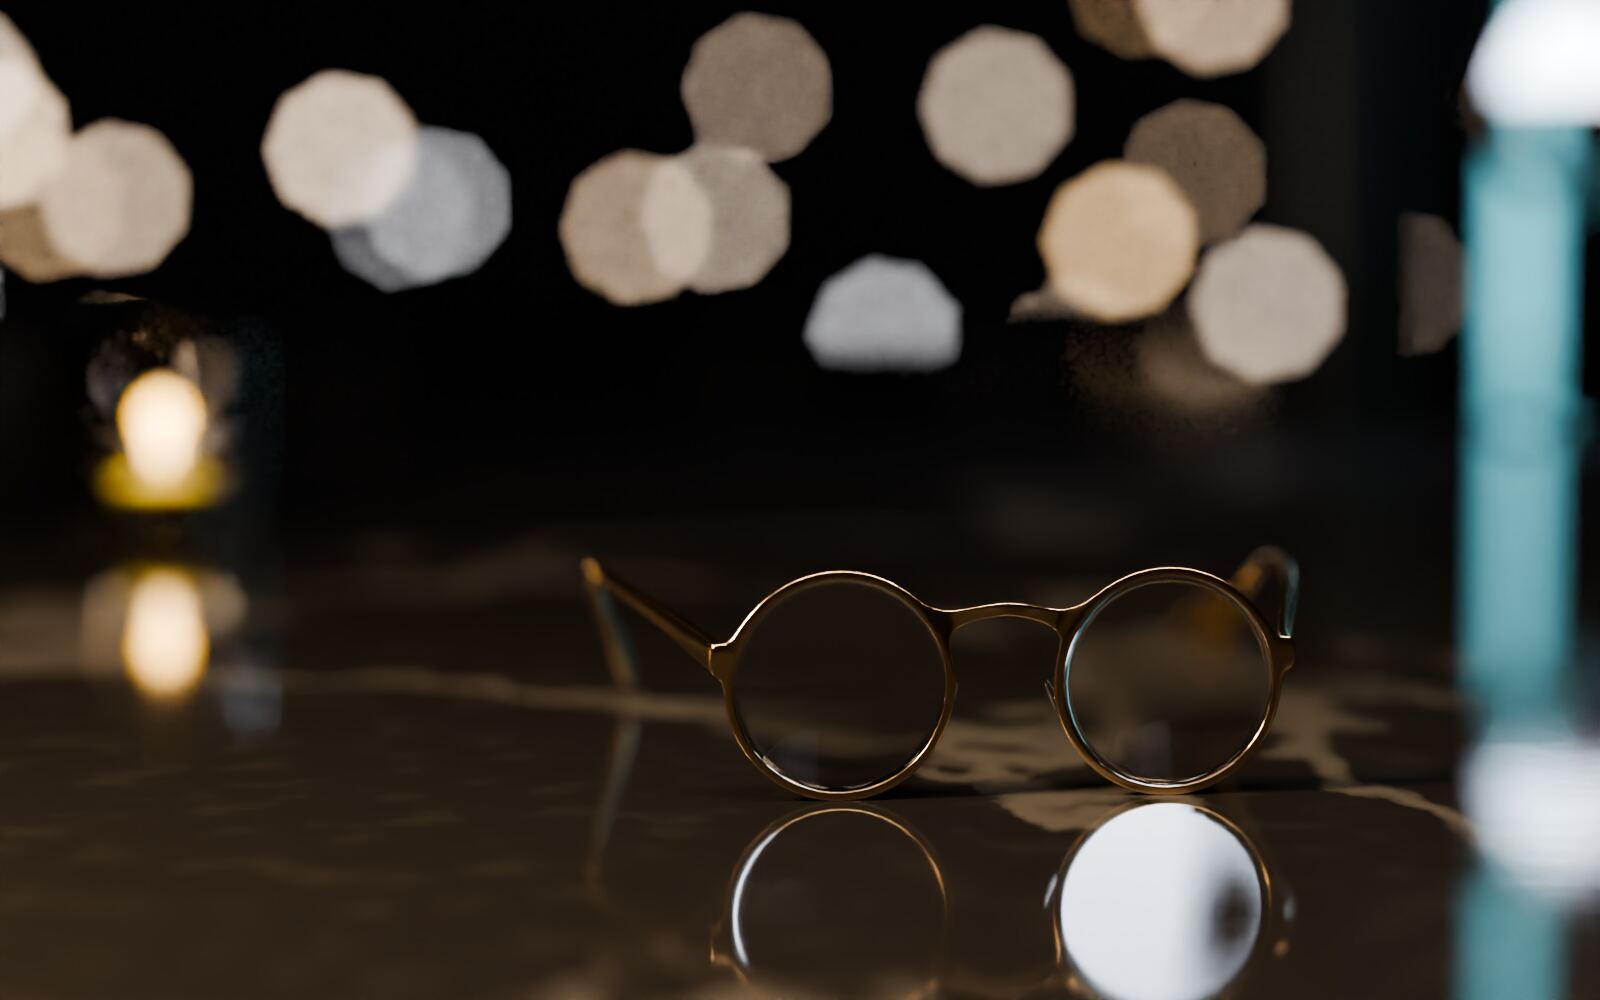
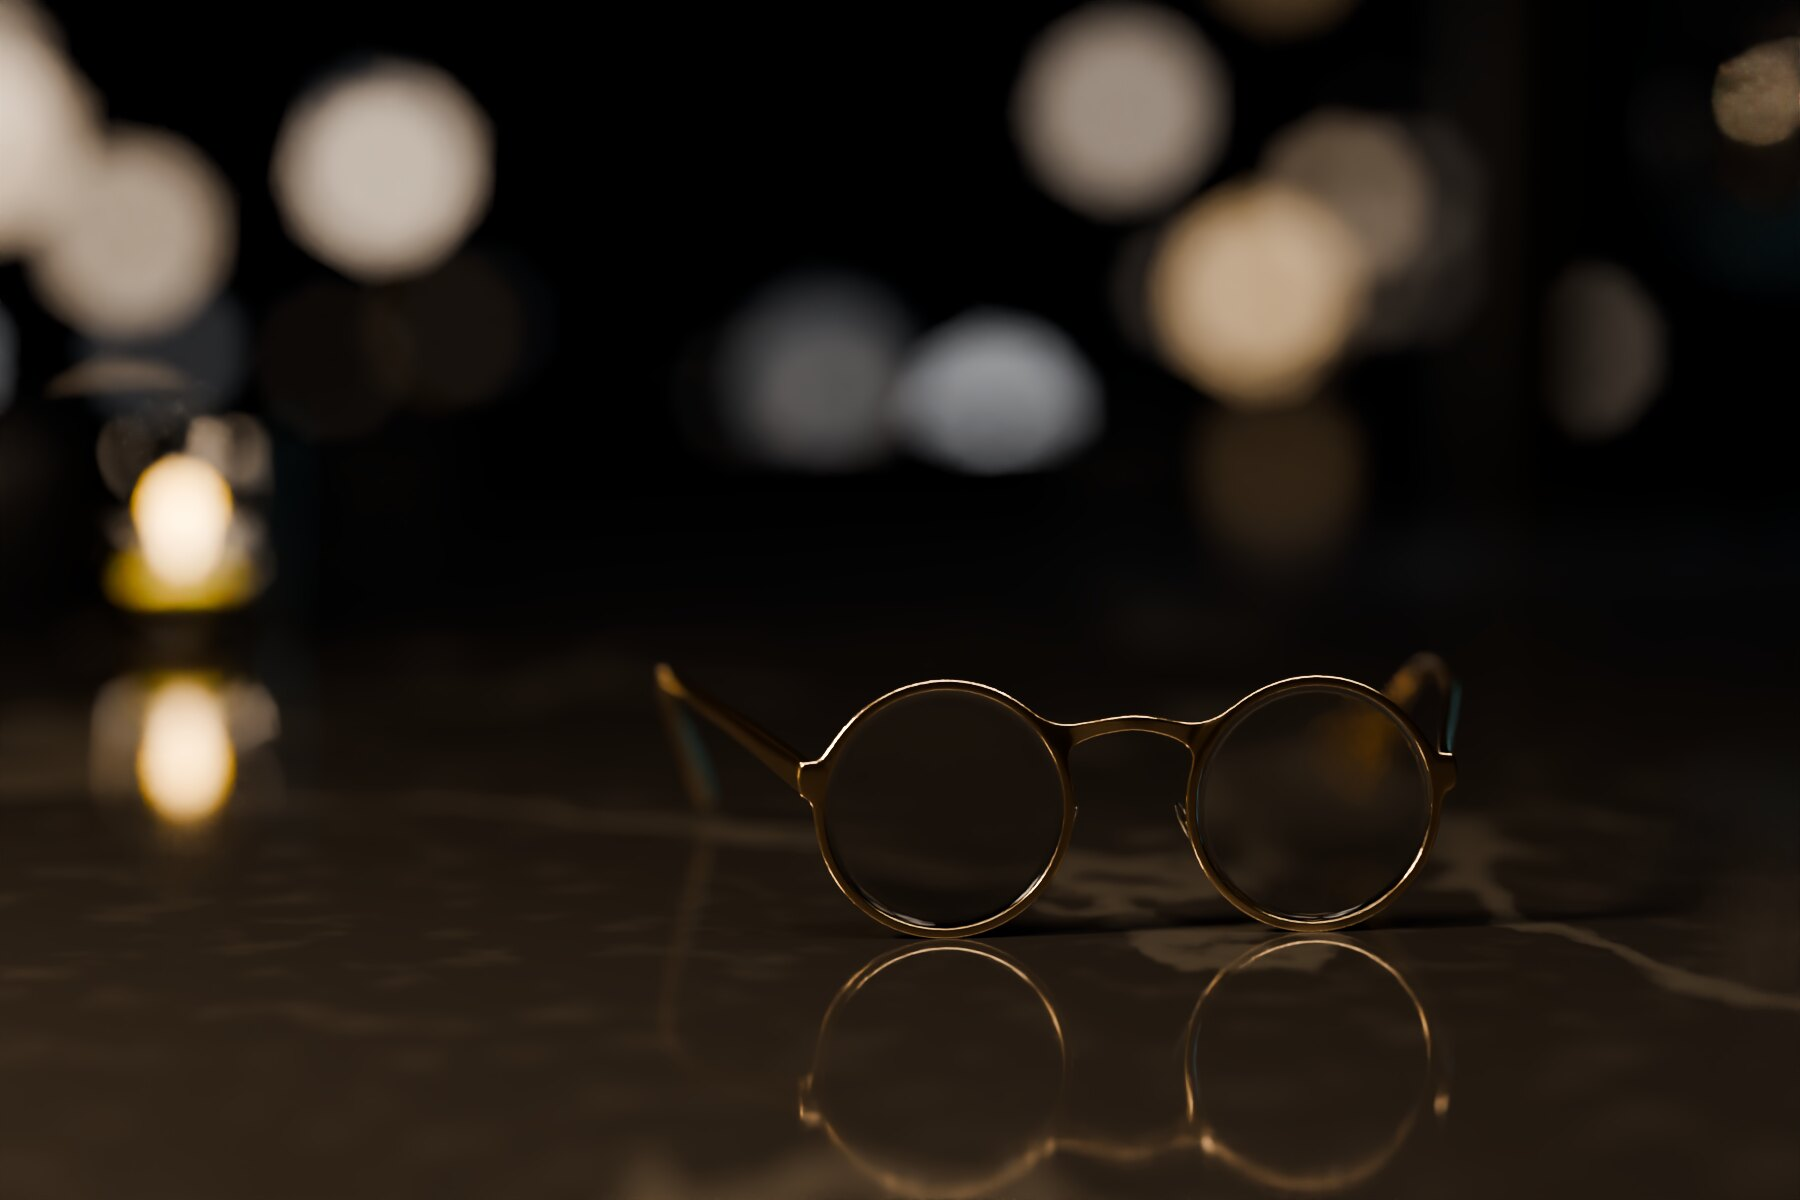
Site pack: optic hero, phone hero and tray renders (Cycles, CC0 models)
Claude-Session: https://claude.ai/code/session_01N4PKgoYVhaPvk2ZQhcH9pU

diff --git a/lib/packs/site/assets/real/src/optic_tray.py b/lib/packs/site/assets/real/src/optic_tray.py
@@ -1,0 +1,81 @@
+# optic / tray: five pairs of round wire frames in different metal finishes, standing open in a charcoal velvet
+# display tray on the black marble table, city lights out of focus behind. Frames: Poly Haven round_spectacles (CC0)
+# with their finish swapped; velvet: Poly Haven velour_velvet (CC0), desaturated.
+import sys, os, math, random
+sys.path.insert(0, os.path.dirname(os.path.abspath(__file__)))
+import common as C
+import bpy, mathutils
+from mathutils import Vector
+
+E = os.environ.get
+W, H = 1500, 900
+sc = C.reset()
+C.setup(sc, W, H, samples=int(E('SAMPLES', '96')), exposure=float(E('EXPO', '0')))
+C.world_color(sc, (0.002, 0.0022, 0.003))
+rng = random.Random(9)
+
+# table: black stone (same recipe as the hero, simplified)
+stone = C.principled('black_stone', color=(0.012, 0.012, 0.013), rough=0.09, **{'Specular IOR Level': 0.55})
+bpy.ops.mesh.primitive_cube_add(size=1, location=(0, 0.4, -0.02)); t = bpy.context.object; t.scale = (3, 3, 0.04); t.data.materials.append(stone)
+
+# tray: black lacquer frame, velvet bed
+lacquer = C.principled('black_lacquer', color=(0.01, 0.01, 0.011), rough=0.12, **{'Coat Weight': 1.0, 'Coat Roughness': 0.03})
+TW, TD, TH = 0.66, 0.40, 0.035
+bpy.ops.mesh.primitive_cube_add(size=1, location=(0, 0, TH / 2)); tray = bpy.context.object; tray.scale = (TW, TD, TH)
+bpy.ops.object.transform_apply(scale=True)
+bv = tray.modifiers.new('bev', 'BEVEL'); bv.width = 0.004; bv.segments = 4
+tray.data.materials.append(lacquer)
+bpy.ops.mesh.primitive_cube_add(size=1, location=(0, 0, TH - 0.006)); cut = bpy.context.object; cut.scale = (TW - 0.03, TD - 0.03, 0.03)
+bo = tray.modifiers.new('cut', 'BOOLEAN'); bo.object = cut; bo.operation = 'DIFFERENCE'; cut.hide_render = True
+tray.modifiers.move(1, 0)
+vel = C.texture('velour_velvet', '2k')
+vel_m = C.pbr('velvet', vel, scale=1.0, hue_sat=(0.5, 0.0, 1.0), color_mult=(0.018, 0.018, 0.02), rough_mult=1.0, bump=0.6, sheen=0.5)
+vel_m.node_tree.nodes['Principled BSDF'].inputs['Sheen Tint'].default_value = (0.6, 0.6, 0.62, 1)
+bpy.ops.mesh.primitive_cube_add(size=1, location=(0, 0, 0.012)); bed = bpy.context.object; bed.scale = (TW - 0.031, TD - 0.031, 0.02)
+bpy.ops.object.transform_apply(scale=True); C.uv_box(bed, 6.0)
+bv = bed.modifiers.new('bev', 'BEVEL'); bv.width = 0.004; bv.segments = 3
+bed.data.materials.append(vel_m)
+BED_Z = 0.022
+
+FINISHES = [('gold', (0.86, 0.66, 0.42), 1.0, 0.17), ('gunmetal', (0.22, 0.22, 0.24), 1.0, 0.26), ('silver', (0.9, 0.9, 0.92), 1.0, 0.13),
+            ('rose', (0.9, 0.62, 0.52), 1.0, 0.2), ('matte_black', (0.025, 0.025, 0.027), 0.35, 0.45)]
+lens_glass = C.glass('crown_glass', ior=1.52)
+src = [o for o in C.model('round_spectacles', '2k') if o.type == 'MESH'][0]
+SPOTS = [(-0.2, 0.08, 8), (0.0, 0.1, -6), (0.2, 0.075, 12), (-0.105, -0.085, -10), (0.105, -0.08, 5)]
+for (x, y, rz), (fname, col, metal, rough) in zip(SPOTS, FINISHES):
+    o = src.copy(); o.data = src.data.copy(); sc.collection.objects.link(o)
+    for i, m in enumerate(o.data.materials):
+        if 'glass' in m.name:
+            o.data.materials[i] = lens_glass
+        else:
+            mm = m.copy(); mm.name = 'frame_' + fname
+            b = mm.node_tree.nodes['Principled BSDF']
+            for sock in ('Base Color', 'Metallic', 'Roughness', 'Alpha'):
+                for l in list(b.inputs[sock].links): mm.node_tree.links.remove(l)
+            b.inputs['Base Color'].default_value = (*col, 1); b.inputs['Metallic'].default_value = metal
+            b.inputs['Roughness'].default_value = rough
+            mm.surface_render_method = 'DITHERED'
+            o.data.materials[i] = mm
+    o.rotation_euler = (0, 0, math.radians(rz + rng.uniform(-3, 3)))
+    o.location = (x, y, 0)
+    bpy.context.view_layer.update()
+    zmin = min((o.matrix_world @ v.co).z for v in o.data.vertices)
+    o.location.z = BED_Z - zmin - 0.0015  # pressed a touch into the pile
+    C.smooth(o)
+bpy.data.objects.remove(src)
+
+# far lights behind for depth (same city as the hero, much further out of focus)
+C.bokeh_field((0, -0.75, 0.55), n=30, az=(-25, 25), el=(-14, -2), dist=(30, 200), strength=(0.3, 3), seed=3, rad=0.008)
+# a window wall far behind so the stone doesn't reflect the void
+# light: soft overhead strip (draws a line on every lens), warm lamp low left, cool rim from the window
+C.light(sc, 'AREA', (0.0, -0.05, 0.75), target=(0, 0.02, 0), energy=float(E('TOP', '7')), color=C.kelvin(4200), size=0.9, size_y=0.12,
+        shape='RECTANGLE', name='strip')
+C.light(sc, 'AREA', (-0.7, -0.35, 0.3), target=(0, 0, 0.03), energy=float(E('LAMP', '14')), color=C.kelvin(2700), size=0.2, shape='DISK', name='lamp')
+rim = C.light(sc, 'AREA', (0.4, 0.8, 0.25), target=(0, 0, 0.02), energy=6, color=C.kelvin(7000), size=0.6, name='rim')
+rim.visible_glossy = False
+
+cam = C.camera(sc, (float(E('CAMX', '0.08')), float(E('CAMY', '-0.66')), float(E('CAMZ', '0.3'))), (0.0, 0.05, 0.03), lens=float(E('LENS', '60')),
+               fstop=float(E('FSTOP', '2.8')))
+cam.data.dof.focus_distance = (Vector((0.0, -0.08, 0.03)) - cam.location).length
+
+C.render(sc, 'optic', 'tray')

diff --git a/lib/packs/site/assets/real/src/optic_hero.py b/lib/packs/site/assets/real/src/optic_hero.py
@@ -5,7 +5,8 @@ sys.path.insert(0, os.path.dirname(os.path.abspath(__file__)))
 import common as C
 import bpy, mathutils
 
-W, H = 1600, 1000
+SLOT = os.environ.get('SLOT', 'hero')
+W, H = {'hero': (1800, 1200), 'heroPhone': (1080, 1600)}[SLOT]
 sc = C.reset()
 C.setup(sc, W, H, samples=int(os.environ.get('SAMPLES', '96')), exposure=0.0)
 
@@ -105,9 +106,9 @@ bpy.ops.mesh.primitive_cube_add(size=1, location=(-3.2, 0, 1.2)); o = bpy.contex
 bpy.ops.mesh.primitive_cube_add(size=1, location=(3.2, 0, 1.2)); o = bpy.context.object; o.scale = (0.1, 8, 3); o.data.materials.append(room)
 
 # --- cool cyan neon tube on the left wall, far back, out of focus (accent only)
-bpy.ops.mesh.primitive_cylinder_add(radius=0.01, depth=1.2, location=(0.62, 1.7, 0.6), rotation=(0, 0, 0))
+bpy.ops.mesh.primitive_cylinder_add(radius=0.01, depth=1.2, location=(0.8, 1.7, 0.6), rotation=(0, 0, 0))
 neon = bpy.context.object
-neon.data.materials.append(C.emission('neon_cyan', (0.25, 0.85, 1.0), float(os.environ.get('NEON', '2.5'))))
+neon.data.materials.append(C.emission('neon_cyan', (0.25, 0.85, 1.0), float(os.environ.get('NEON', '1.6' if SLOT == 'hero' else '0.3'))))
 
 # --- dinner table behind, out of focus: a wine glass and a candle
 def lathe(name, prof, mat, loc, thick=0.0012):
@@ -141,6 +142,7 @@ C.light(sc, 'AREA', (-0.55, -0.15, 0.42), target=(0.0, 0.05, 0.0), energy=22, co
 # soft cool rim from the window side, very low
 rim = C.light(sc, 'AREA', (0.35, 0.9, 0.3), target=(0, 0, 0.02), energy=2.5, color=(0.75, 0.85, 1.0), size=0.3, name='rim')
 rim.visible_glossy = False
+rim.visible_transmission = False
 # a strip reflection to draw the frame's shape on the stone
 strip = C.light(sc, 'AREA', (0.05, -0.2, 0.5), target=(0, 0, 0), energy=5, color=C.kelvin(3400), size=0.7, size_y=0.06,
         shape='RECTANGLE', name='strip')
@@ -148,10 +150,13 @@ strip.visible_transmission = False
 
 
 
-C.bokeh_field((-0.12, -0.74, 0.13), n=int(os.environ.get('NB', '34')), el=(-5.5, 3.5), strength=(3, 40), seed=7)
-C.bokeh_field((-0.12, -0.74, 0.13), n=40, el=(-6, 1.0), dist=(6, 40), strength=(1, 8), seed=11, rad=0.0012)
-cam = C.camera(sc, (-0.12, -0.74, 0.13), (-0.035, 0.06, 0.055), lens=85, fstop=2.8)
+C.bokeh_field((-0.12, -0.74, 0.13), n=int(os.environ.get('NB', '34')), el=(-5.5, 3.5), strength=(0.3, 4), seed=7, rad=0.008)
+C.bokeh_field((-0.12, -0.74, 0.13), n=40, el=(-6, 1.0), dist=(6, 40), strength=(0.1, 0.8), seed=11, rad=0.004)
+if SLOT == 'hero':
+    cam = C.camera(sc, (-0.12, -0.74, 0.13), (-0.035, 0.06, 0.055), lens=85, fstop=2.8)
+else:  # portrait: the frames low in the picture, the city's lights above
+    cam = C.camera(sc, (-0.2, -0.6, 0.12), (0.01, 0.05, 0.085), lens=85, fstop=2.8)
 cam.data.dof.focus_distance = (mathutils.Vector((0, 0.0, 0.03)) - cam.location).length
 cam.data.shift_y = 0.0
 
-C.render(sc, 'optic', 'hero')
+C.render(sc, 'optic', SLOT)

diff --git a/lib/packs/site/assets/real/src/common.py b/lib/packs/site/assets/real/src/common.py
@@ -249,7 +249,7 @@ def bokeh_field(cam_loc, n=160, az=(-16, 16), el=(-4.5, 1.5), dist=(25, 250), st
         a = math.radians(rng.uniform(*az)); e = math.radians(rng.uniform(*el)); d = rng.uniform(*dist)
         x = cam_loc[0] + d * math.sin(a); y = cam_loc[1] + d * math.cos(a); z = cam_loc[2] + d * math.tan(e)
         k = round(rng.uniform(*temps), -2) if rng.random() > cool else 7000
-        s = round(rng.uniform(*strength), -1)
+        s = round(rng.uniform(*strength), 2)
         key = (k, s)
         if key not in mats:
             mats[key] = emission(f'bokeh_{k}_{s}', kelvin(k), s)
@@ -509,7 +509,7 @@ def smooth(o):
         p.use_smooth = True
 
 
-def render(sc, design, slot, quality=78, max_kb=None):
+def render(sc, design, slot, quality=86, max_kb=None):
     """Renders to PNG under OUT, then writes the progressive JPG into the repo (skipped for --preview)."""
     os.makedirs(OUT, exist_ok=True)
     tag = f'{design}-{slot}' + ('-preview' if PREVIEW else '')
@@ -526,9 +526,9 @@ def render(sc, design, slot, quality=78, max_kb=None):
     return finish(png, design, slot, quality, max_kb)
 
 
-def finish(png, design, slot, quality=78, max_kb=None):
+def finish(png, design, slot, quality=86, max_kb=None):
     w = bpy.context.scene.render.resolution_x if bpy.context else None
-    max_kb = max_kb or (180 if (w or 1600) >= 1600 else 120)
+    max_kb = max_kb or 150
     d = os.path.join(REPO_REAL, design)
     os.makedirs(d, exist_ok=True)
     jpg = os.path.join(d, f'{slot}.jpg')
